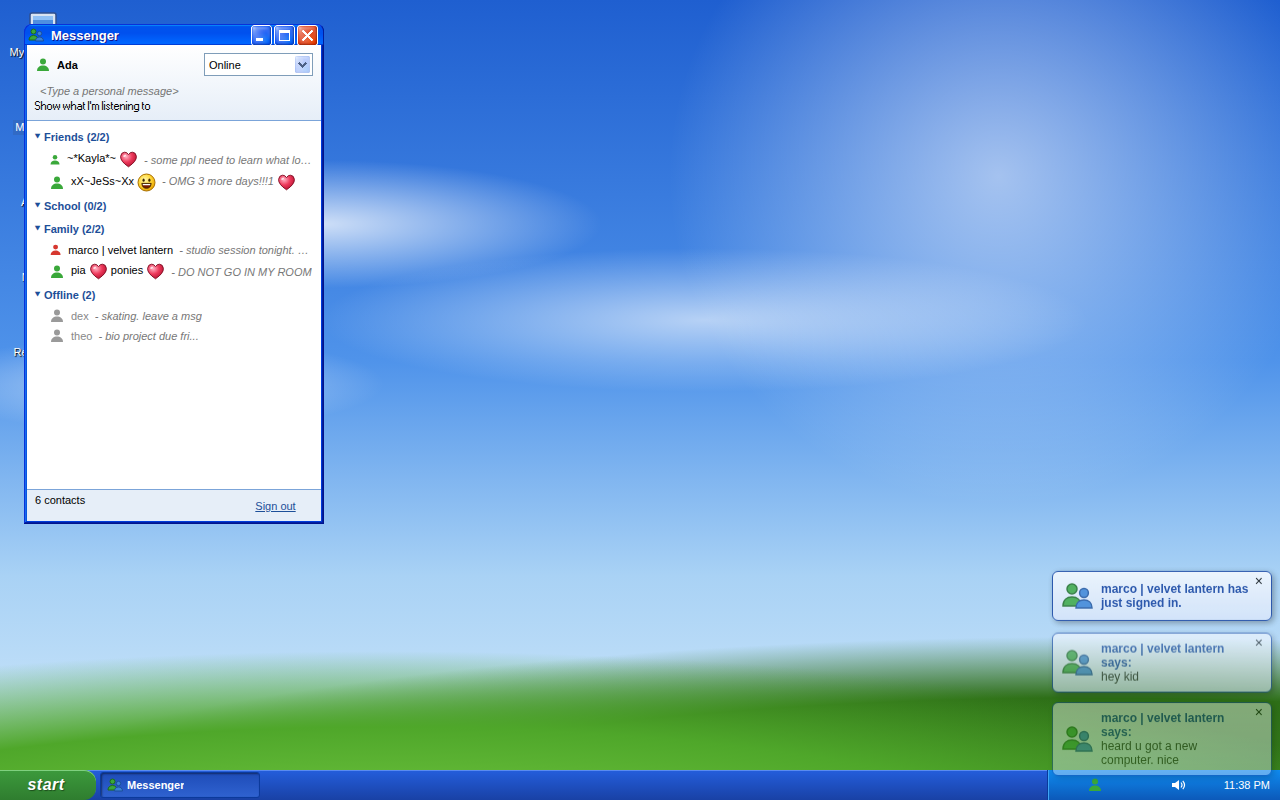
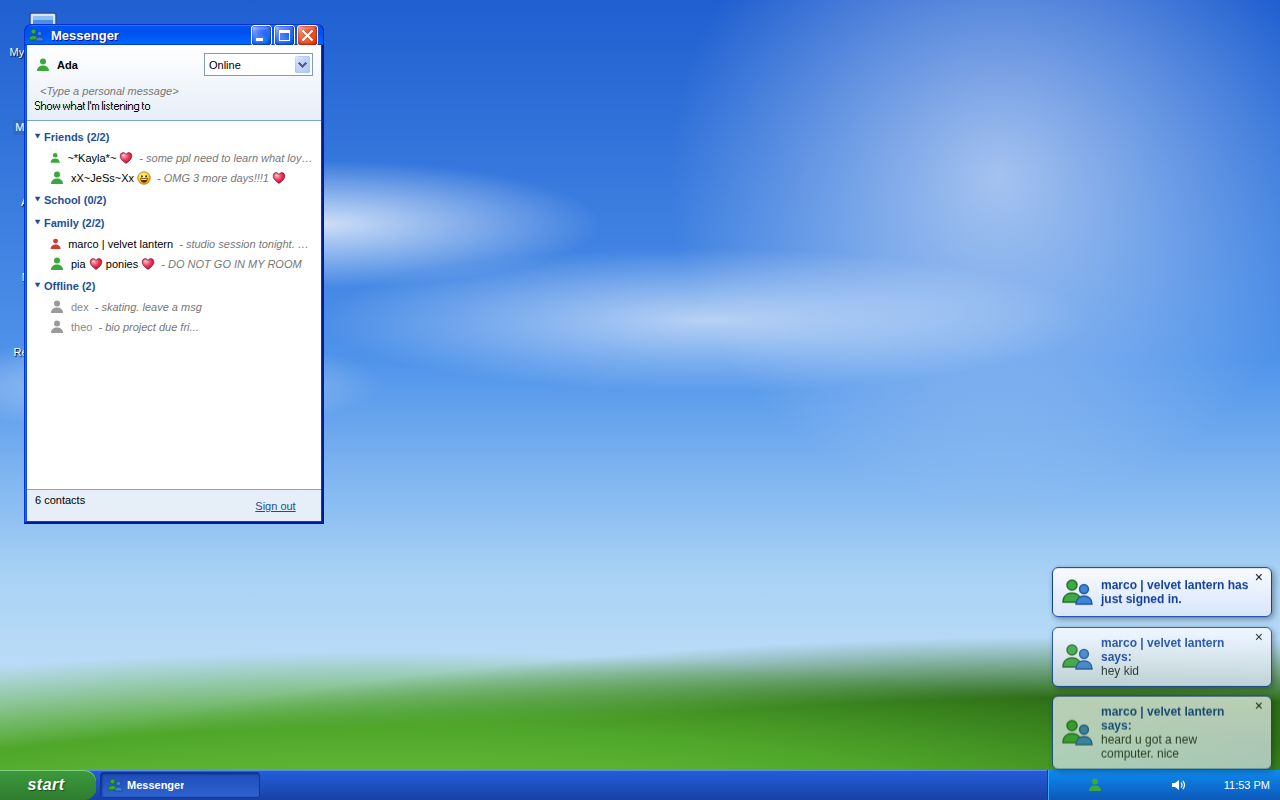
Polish Amplifier skin and Messenger contact rows
- Amplifier: two-row LCD (time, visualizer, status / full-width marquee)
  fills the fixed skin and stops truncating the track title
- Amplifier: dark groove + metal thumb sliders instead of xp.css light style
- Messenger: 14px emoticons in the contact list so all rows are 20px
- Refresh review/README screenshots; drop fixed items from known issues

Changed region(s): [[0.8125, 0.6875, 1.0, 0.9688], [0.0312, 0.1875, 0.25, 0.4375]]

diff --git a/src/apps/amplifier/Amplifier.module.css b/src/apps/amplifier/Amplifier.module.css
@@ -4,6 +4,7 @@
   --amp-lcd-bg: #07170b;
   display: flex;
   flex-direction: column;
+  justify-content: space-between;
   gap: 4px;
   width: 100%;
   height: 100%;
@@ -61,13 +62,26 @@
 
 .display {
   display: flex;
-  gap: 4px;
+  flex-direction: column;
+  gap: 2px;
   flex: none;
-  padding: 2px;
+  padding: 2px 4px;
   background: var(--amp-lcd-bg);
   border: 1px inset #555;
   color: var(--amp-lcd);
   font-family: 'Courier New', monospace;
+}
+
+.lcdTop {
+  display: flex;
+  gap: 6px;
+  align-items: center;
+}
+
+.statusText {
+  margin-left: auto;
+  font-size: 9px;
+  letter-spacing: 1px;
 }
 
 .time {
@@ -106,11 +120,9 @@
 }
 
 .marquee {
-  flex: 1;
   min-width: 0;
   overflow: hidden;
   white-space: nowrap;
-  align-self: center;
 }
 
 .marqueeText {
@@ -149,6 +161,69 @@
 .volume {
   width: 60px;
   margin: 0;
+}
+
+/* Dark groove + metal thumb; overrides xp.css's light range styling. */
+.sliders input[type='range'] {
+  appearance: none;
+  height: 10px;
+  background: transparent;
+  cursor: pointer;
+}
+
+.sliders input[type='range']:disabled {
+  opacity: 0.4;
+  cursor: default;
+}
+
+.sliders input[type='range']::-webkit-slider-runnable-track {
+  height: 4px;
+  background: #0d0f12;
+  border: 0;
+  border-bottom: 1px solid #555;
+  box-shadow: none;
+}
+
+.sliders input[type='range']::-moz-range-track {
+  height: 4px;
+  background: #0d0f12;
+  border: 0;
+  border-bottom: 1px solid #555;
+  box-shadow: none;
+}
+
+.sliders input[type='range']::-webkit-slider-thumb {
+  appearance: none;
+  width: 8px;
+  height: 10px;
+  margin-top: -3px;
+  background: linear-gradient(#8a93a3, #4a5160);
+  border: 1px solid #0d0f12;
+  border-radius: 0;
+  box-shadow: none;
+  transform: none;
+}
+
+.sliders input[type='range']::-moz-range-thumb {
+  width: 8px;
+  height: 10px;
+  background: linear-gradient(#8a93a3, #4a5160);
+  border: 1px solid #0d0f12;
+  border-radius: 0;
+  box-shadow: none;
+  transform: none;
+}
+
+.sliders input[type='range']:focus-visible {
+  outline: none;
+}
+
+.sliders input[type='range']:focus-visible::-webkit-slider-thumb {
+  outline: 1px solid var(--amp-lcd);
+}
+
+.sliders input[type='range']:focus-visible::-moz-range-thumb {
+  outline: 1px solid var(--amp-lcd);
 }
 
 .buttons {

diff --git a/src/apps/amplifier/Amplifier.tsx b/src/apps/amplifier/Amplifier.tsx
@@ -13,6 +13,11 @@ import styles from './Amplifier.module.css';
 const BASE_HEIGHT = 116;
 const SEEK_STEP = 5;
 const VOLUME_STEP = 0.05;
+const STATUS_LABEL = {
+  playing: 'PLAY',
+  paused: 'PAUSE',
+  stopped: 'STOP',
+};
 const REPEAT_LABEL = {
   off: 'Repeat: off',
   all: 'Repeat: all',
@@ -108,19 +113,24 @@ export default function Amplifier({ windowId }: AppComponentProps) {
       </div>
 
       <div className={styles.display}>
-        <button
-          type="button"
-          className={styles.time}
-          aria-label={remaining ? 'Time remaining' : 'Time elapsed'}
-          onClick={() => setRemaining((r) => !r)}
-        >
-          {timeText}
-        </button>
-        <Visualizer
-          audio={amplifierAudio}
-          status={s.status}
-          reduced={reduced}
-        />
+        <div className={styles.lcdTop}>
+          <button
+            type="button"
+            className={styles.time}
+            aria-label={remaining ? 'Time remaining' : 'Time elapsed'}
+            onClick={() => setRemaining((r) => !r)}
+          >
+            {timeText}
+          </button>
+          <Visualizer
+            audio={amplifierAudio}
+            status={s.status}
+            reduced={reduced}
+          />
+          <span className={styles.statusText} aria-hidden="true">
+            {STATUS_LABEL[s.status]}
+          </span>
+        </div>
         <div
           className={styles.marquee}
           data-static={reduced}

diff --git a/src/apps/messenger/Messenger.module.css b/src/apps/messenger/Messenger.module.css
@@ -137,6 +137,8 @@
   display: flex;
   align-items: center;
   gap: 6px;
+  box-sizing: border-box;
+  height: 20px;
   padding: 2px 8px 2px 22px;
   cursor: default;
   user-select: none;
@@ -156,6 +158,14 @@
   overflow: hidden;
   text-overflow: ellipsis;
   white-space: nowrap;
+}
+
+/* Emoticons render smaller here than in chat so every row keeps the same height. */
+.contactName img,
+.contactMessage img {
+  width: 14px;
+  height: 14px;
+  vertical-align: -3px;
 }
 
 .contact[data-status='offline'] .contactName {

diff --git a/docs/decisions.md b/docs/decisions.md
@@ -45,3 +45,4 @@
 - M3-07: the audio element is routed into Web Audio lazily (first time the visualizer is on, motion allowed, and playback is playing/paused) and cached per element in a WeakMap — createMediaElementSource can only run once per element, and with reduced motion the music never goes through Web Audio at all
 - M3-07: visualizer sits inline in the LCD between time and marquee; canvas is a 76×16 bitmap scaled with `image-rendering: pixelated`; paused = one held frame, stopped/off/reduced motion = blank (scope: flat line); mode is not persisted (defaults to bars)
 - M3-07: `src/test/setup.ts` stubs `HTMLCanvasElement.getContext` to return null — jsdom has no canvas and otherwise logs "Not implemented" for every Amplifier render
+- Polish: Amplifier LCD split into two rows (time + visualizer + status / full-width marquee) — fills the fixed 116px skin without resizing the window and stops the marquee being squeezed to a few characters

diff --git a/docs/review/M4.md b/docs/review/M4.md
@@ -37,6 +37,9 @@ The README images are the release screenshots; none are added in this gate. Rege
 
 - Netlog/MySpace-style profiles and the "living world" are not built (listed under "Planned" in the README).
 - Sounds and real MP3 playback were not auditioned by ear in headless gates.
-- Amplifier: slider thumbs use the light xp.css style on the dark skin; ~30 px unused skin below the buttons without the playlist.
-- Messenger contact list: emoticon rows are slightly taller than text-only rows.
 - Mobile/touch is only a notice; the UI is not adapted to small screens.
+
+## Post-gate polish
+
+- Amplifier: dark groove/metal-thumb sliders; two-row LCD (time, visualizer, status / full-width marquee) fills the former empty band and stops truncating the track title.
+- Messenger: contact-list emoticons render at 14px, so every row is 20px tall.

diff --git a/docs/release-notes-v0.1.0.md b/docs/release-notes-v0.1.0.md
@@ -21,7 +21,6 @@ The first playable MVP: a Windows XP–style desktop frozen in 2007, with a mess
 
 - Netlog/MySpace-style profiles and a changing "living world" are not part of this release.
 - Not designed for phones or tablets; small screens only get a notice.
-- Amplifier slider thumbs don't match the dark skin; minor cosmetic spacing in the Amplifier and the Messenger contact list.
 - Audio and sounds were verified by tests, not by ear, in the automated review.
 
 ## Credits
